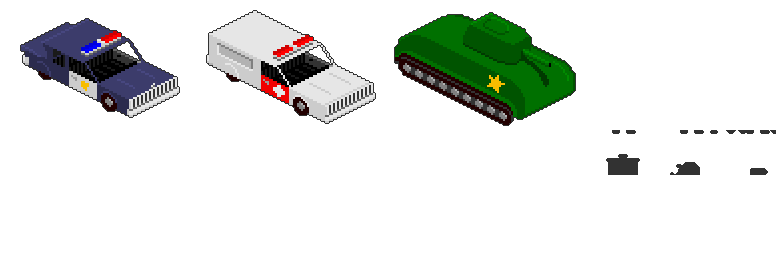
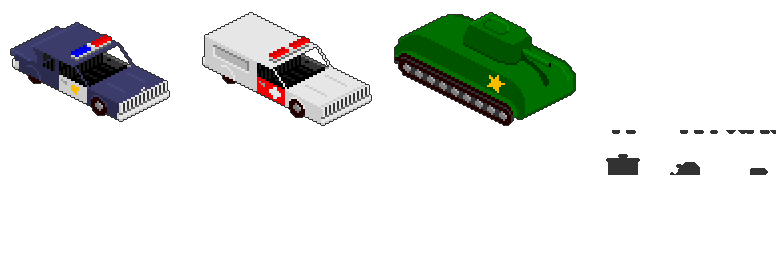
Added vehicles to the editor and made them appear in game. They don't render zorder or block properly yet though.

Changed region(s): [[0.0, 0.0615, 0.2474, 0.4615], [0.2474, 0.0615, 0.4948, 0.4923], [0.3093, 0.0308, 0.3402, 0.0615]]

diff --git a/lib/gui/editor_selector.rb b/lib/gui/editor_selector.rb
@@ -1,5 +1,5 @@
 class EditorSelector < Fidgit::Vertical
-  OBJECT_TABS = [:tiles, :entities, :objects, :walls]
+  OBJECT_TABS = [:tiles, :entities, :objects, :vehicles, :walls]
 
   def tab; @tabs_group.value; end
   def selected; @selector_group.value ;end
@@ -42,15 +42,15 @@ class EditorSelector < Fidgit::Vertical
       when :tiles
         @selector_group.value = tile.type if tile
 
-      when :entities, :objects
+      when :entities, :objects, :vehicles
         if tile
           object = tile.object
           if object
-            if tab == :entities and not object.is_a?(Entity)
-              self.tab = :objects
-            elsif tab == :objects and not object.is_a?(StaticObject)
-              self.tab = :entities
-            end
+            self.tab = case object
+                         when Entity then :entities
+                         when StaticObject then :objects
+                         when Vehicle then :vehicles
+                       end
 
             @selector_group.value = object.type
           else
@@ -138,6 +138,28 @@ class EditorSelector < Fidgit::Vertical
         end
 
         @selector_window = @objects_window
+
+      when :vehicles
+        unless defined? @vehicles_window
+          @vehicles_window = Fidgit::ScrollWindow.new scroll_options do
+            buttons = group do
+              vertical padding: 1 do
+                radio_button 'Erase', :erase
+                grid padding: 0, num_columns: 1 do
+
+                  Vehicle.config.each_pair.sort.each do |type, data|
+                    radio_button '', type, icon: Vehicle.sprites[*data['spritesheet_position']],
+                                 tip: "Vehicle: #{type}", padding: 0, icon_options: { factor: 0.5 }
+                  end
+                end
+              end
+            end
+
+            buttons.value = :erase
+          end
+        end
+
+        @selector_window = @vehicles_window
 
       when :walls
         unless defined? @walls_window

diff --git a/lib/objects/vehicle.rb b/lib/objects/vehicle.rb
@@ -1,24 +1,23 @@
 require_relative "world_object"
 
-class StaticObject < WorldObject
-  CLASS = 'object'
+class Vehicle < WorldObject
+  CLASS = 'vehicle'
 
-  CONFIG_PASSABLE = 'passable'
   CONFIG_MINIMAP_COLOR = 'minimap_color'
   CONFIG_SPRITESHEET_POSITION = 'spritesheet_position'
 
   attr_reader :minimap_color, :type
 
-  def impassable?(person); !@passable; end
-  def passable?(person); @passable; end
+  def impassable?(person); true; end
+  def passable?(person); false; end
   def inactive?; true; end
 
   def to_s; "<#{self.class.name}/#{@type}##{id} #{tile ? grid_position : "[off-map]"}>"; end
   def name; @type.split("_").map(&:capitalize).join(" "); end
 
-  def self.config; @@config ||= YAML.load_file(File.expand_path("config/map/objects.yml", EXTRACT_PATH)); end
+  def self.config; @@config ||= YAML.load_file(File.expand_path("config/map/vehicles.yml", EXTRACT_PATH)); end
   def self.types; config.keys; end
-  def self.sprites; @@sprites ||= SpriteSheet.new("objects.png", 64 + 2, 64 + 2, 8); end
+  def self.sprites; @@sprites ||= SpriteSheet.new("vehicles.png", (96 * 2) + 2, (64 * 2) + 2, 4); end
 
   def initialize(map, data)
     @type = data[DATA_TYPE]
@@ -31,9 +30,13 @@ class StaticObject < WorldObject
     super(map, data, options)
 
     @minimap_color = Color.rgb(*config[CONFIG_MINIMAP_COLOR])
-    @passable = config[CONFIG_PASSABLE]
 
     raise @type unless @image
+  end
+
+  def draw
+    # TODO: Draw as multiple fragments, so that zorder is correct.
+    @image.draw_rot @x - 14, @y + 2.5 + 4, @y, 0, 0.5, 1, OUTLINE_SCALE * @factor_x, OUTLINE_SCALE
   end
 
   def to_json(*a)

diff --git a/lib/map/map.rb b/lib/map/map.rb
@@ -94,6 +94,8 @@ class Map
           Entity.new self, object_data
         when StaticObject::CLASS
           StaticObject.new self, object_data
+        when Vehicle::CLASS
+          Vehicle.new self, object_data
         else
           raise "Bad object class #{object_data[WorldObject::DATA_CLASS].inspect}"
       end
@@ -196,7 +198,7 @@ class Map
     raise "can't add null object" if object.nil?
 
     case object
-      when Entity, StaticObject
+      when Entity, StaticObject, Vehicle
         @world_objects << object
       when Wall
         @drawable_walls << object
@@ -213,7 +215,7 @@ class Map
     @drawable_objects.delete object
 
     case object
-      when Entity, StaticObject
+      when Entity, StaticObject, Vehicle
         @world_objects.delete object
       when Wall
         @drawable_walls.delete object

diff --git a/lib/main.rb b/lib/main.rb
@@ -59,7 +59,7 @@ Font.autoload_dirs.unshift File.join(media_dir, 'fonts')
 require_folder("", %w[log version sprite_sheet z_order z_order_recorder game_window mouse_selection])
 require_folder("gui", %w[minimap editor_selector entity_summary info_panel])
 require_folder("map", %w[tile wall map])
-require_folder("objects", %w[static_object entity])
+require_folder("objects", %w[static_object entity vehicle])
 require_folder("states", %w[edit_level play_level main_menu])
 require_folder("players", %w[player])
 require_folder("history", %w[editor_action_history game_action_history])

diff --git a/lib/states/edit_level.rb b/lib/states/edit_level.rb
@@ -116,8 +116,12 @@ class EditLevel < World
             end
           end
 
-        when :entities, :objects
-          klass = (@selector.tab == :entities) ? Entity : StaticObject
+        when :entities, :objects, :vehicles
+          klass = case @selector.tab
+                    when :entities then Entity
+                    when :objects then StaticObject
+                    when :vehicles then Vehicle
+                  end
 
           if @hover_tile
             if @selector.selected == :erase
